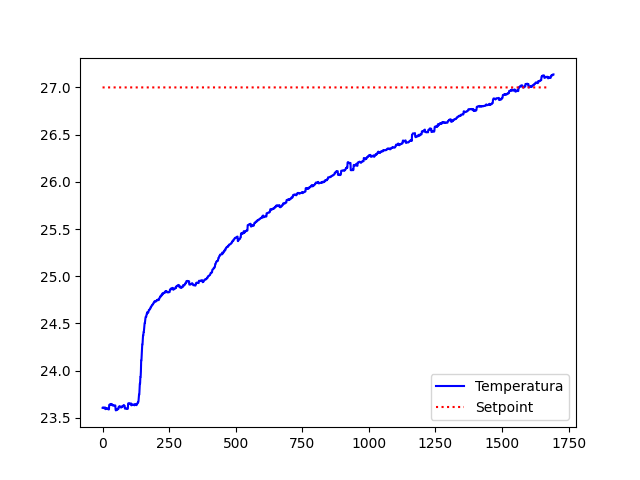
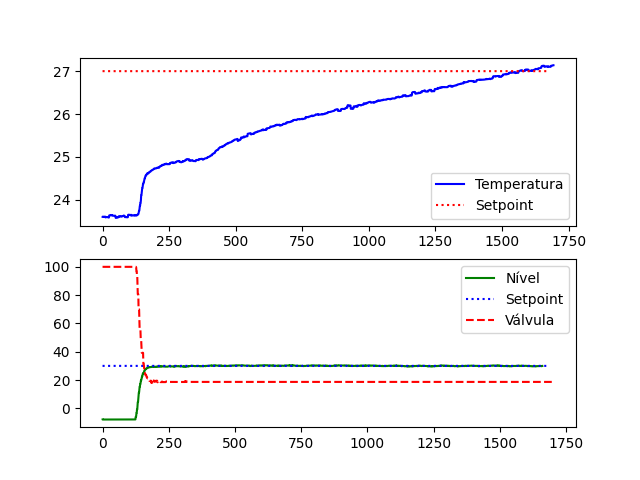
added option for subplotting graphics
* In order to subplot a graphic, one must state
	into the proper GraphicInfo in which column it
	must be placed. They can only be stacked vertically.

diff --git a/temp_control.py b/temp_control.py
@@ -1,21 +1,44 @@
 import matplotlib.pyplot as plt
-from __init__ import measured_temperature_file_data, temperature_sp_file_data
+from __init__ import (measured_temperature_file_data, temperature_sp_file_data,
+                      tank2_level_temp_sim_file_data, tank2_sp_temp_sim_file_data, tank2_valve_temp_sim_file_data)
 from graphic import join_graphic_info_from, plot
 
-
-tank_temp_info = join_graphic_info_from(measured_temperature_file_data)
+actual_temp_info = join_graphic_info_from(measured_temperature_file_data)
 sp_temp_info = join_graphic_info_from(temperature_sp_file_data)
 
+tank2_level_temp_info = join_graphic_info_from(tank2_level_temp_sim_file_data)
+tank2_sp_temp_info = join_graphic_info_from(tank2_sp_temp_sim_file_data)
+tank2_valve_temp_info = join_graphic_info_from(tank2_valve_temp_sim_file_data)
 
 if __name__ == '__main__':
-    tank_temp_info.color = 'blue'
-    tank_temp_info.label = 'Temperatura'
-    tank_temp_info.linestyle = 'solid'
+    actual_temp_info.color = 'blue'
+    actual_temp_info.label = 'Temperatura'
+    actual_temp_info.linestyle = 'solid'
 
     sp_temp_info.color = 'red'
     sp_temp_info.label = 'Setpoint'
     sp_temp_info.linestyle = 'dotted'
 
-    plot(tank_temp_info, sp_temp_info)
+    tank2_level_temp_info.color = 'green'
+    tank2_level_temp_info.label = 'Nível'
+    tank2_level_temp_info.linestyle = 'solid'
+    tank2_level_temp_info.position = 1
+
+    tank2_sp_temp_info.color = 'blue'
+    tank2_sp_temp_info.label = 'Setpoint'
+    tank2_sp_temp_info.linestyle = 'dotted'
+    tank2_sp_temp_info.position = 1
+
+    tank2_valve_temp_info.color = 'red'
+    tank2_valve_temp_info.label = 'Válvula'
+    tank2_valve_temp_info.linestyle = 'dashed'
+    tank2_valve_temp_info.position = 1
+
+    plot(2,
+         actual_temp_info,
+         sp_temp_info,
+         tank2_level_temp_info,
+         tank2_sp_temp_info,
+         tank2_valve_temp_info)
 
     plt.savefig('graphics/temperature.png')

diff --git a/__init__.py b/__init__.py
@@ -7,19 +7,19 @@ def data_from(filename):
 
 
 # Standard results for showing at front page.
-standard_level_file_data = data_from('standard/tank-level.txt')
+standard_level_file_data = data_from('standard/level.txt')
 standard_sp_file_data = data_from('standard/sp.txt')
-standard_valve_file_data = data_from('standard/tank-valve.txt')
+standard_valve_file_data = data_from('standard/valve.txt')
 
 # Adaptive gain comparison results.
-ad_gain_level_file_data = data_from('ad_gain/tank-level.txt')
+ad_gain_level_file_data = data_from('ad_gain/level.txt')
 ad_gain_sp_file_data = data_from('ad_gain/sp.txt')
-ad_gain_valve_file_data = data_from('ad_gain/tank-valve.txt')
+ad_gain_valve_file_data = data_from('ad_gain/valve.txt')
 
 # Anti-reset windup comparison results.
-arw_level_file_data = data_from('antireset_windup/tank-level.txt')
+arw_level_file_data = data_from('antireset_windup/level.txt')
 arw_sp_file_data = data_from('antireset_windup/sp.txt')
-arw_valve_file_data = data_from('antireset_windup/tank-valve.txt')
+arw_valve_file_data = data_from('antireset_windup/valve.txt')
 
 # Temperature test results
 measured_temperature_file_data = data_from('temperature/temp.txt')
@@ -27,4 +27,3 @@ temperature_sp_file_data = data_from('temperature/temp-sp.txt')
 tank2_level_temp_sim_file_data = data_from('temperature/tank-level.txt')
 tank2_valve_temp_sim_file_data = data_from('temperature/tank-valve.txt')
 tank2_sp_temp_sim_file_data = data_from('temperature/tank-sp.txt')
-

diff --git a/graphic.py b/graphic.py
@@ -8,8 +8,9 @@ class GraphicInfo:
     time: np.array
     result: np.array
     label: str
-    color: str
-    linestyle: str
+    color: str = 'black'
+    linestyle: str = 'solid'
+    position: int = 0  # States into which column the graphic info must be placed.
 
 
 def join_graphic_info_from(filedata):
@@ -27,18 +28,29 @@ def join_graphic_info_from(filedata):
     time = np.array(time, dtype=float)
     result = np.array(result, dtype=float)
 
-    return GraphicInfo(time, result, label, 'black', 'solid')
+    return GraphicInfo(time, result, label)
 
 
-def plot(*args):
+def plot(cols=1, *args):
+    _, axis = plt.subplots(cols)
 
     for arg in args:
-        plt.plot(arg.time,
-                 arg.result,
-                 label=arg.label,
-                 color=arg.color,
-                 linestyle=arg.linestyle)
+        column = arg.position
 
-    plt.legend()
+        if cols > 1:
+            axis[column].plot(arg.time,
+                              arg.result,
+                              label=arg.label,
+                              color=arg.color,
+                              linestyle=arg.linestyle)
+            axis[column].legend()
+        else:
+            axis.plot(arg.time,
+                      arg.result,
+                      label=arg.label,
+                      color=arg.color,
+                      linestyle=arg.linestyle)
+            axis.legend()
+    # plt.legend()
 
     return plt

diff --git a/tank2_level_control.py b/tank2_level_control.py
@@ -21,6 +21,6 @@ if __name__ == '__main__':
     valve_info.label = 'Válvula'
     valve_info.linestyle = 'dashed'
 
-    plot(level_info, sp_info, valve_info)
+    plot(1, level_info, sp_info, valve_info)
 
-    plt.savefig('graphics/level-sp-valve.png')
+    plt.savefig('graphics/standard.png')

diff --git a/ad_gain_comparison.py b/ad_gain_comparison.py
@@ -21,6 +21,6 @@ if __name__ == '__main__':
     valve_info.label = 'Válvula'
     valve_info.linestyle = 'dashed'
 
-    plot(level_info, sp_info, valve_info)
+    plot(1, level_info, sp_info, valve_info)
 
     plt.savefig('graphics/ad-gain.png')

diff --git a/antireset_windup.py b/antireset_windup.py
@@ -21,6 +21,6 @@ if __name__ == '__main__':
     valve_info.label = 'Válvula'
     valve_info.linestyle = 'dashed'
 
-    plot(level_info, sp_info, valve_info)
+    plot(1, level_info, sp_info, valve_info)
 
     plt.savefig('graphics/arw.png')
